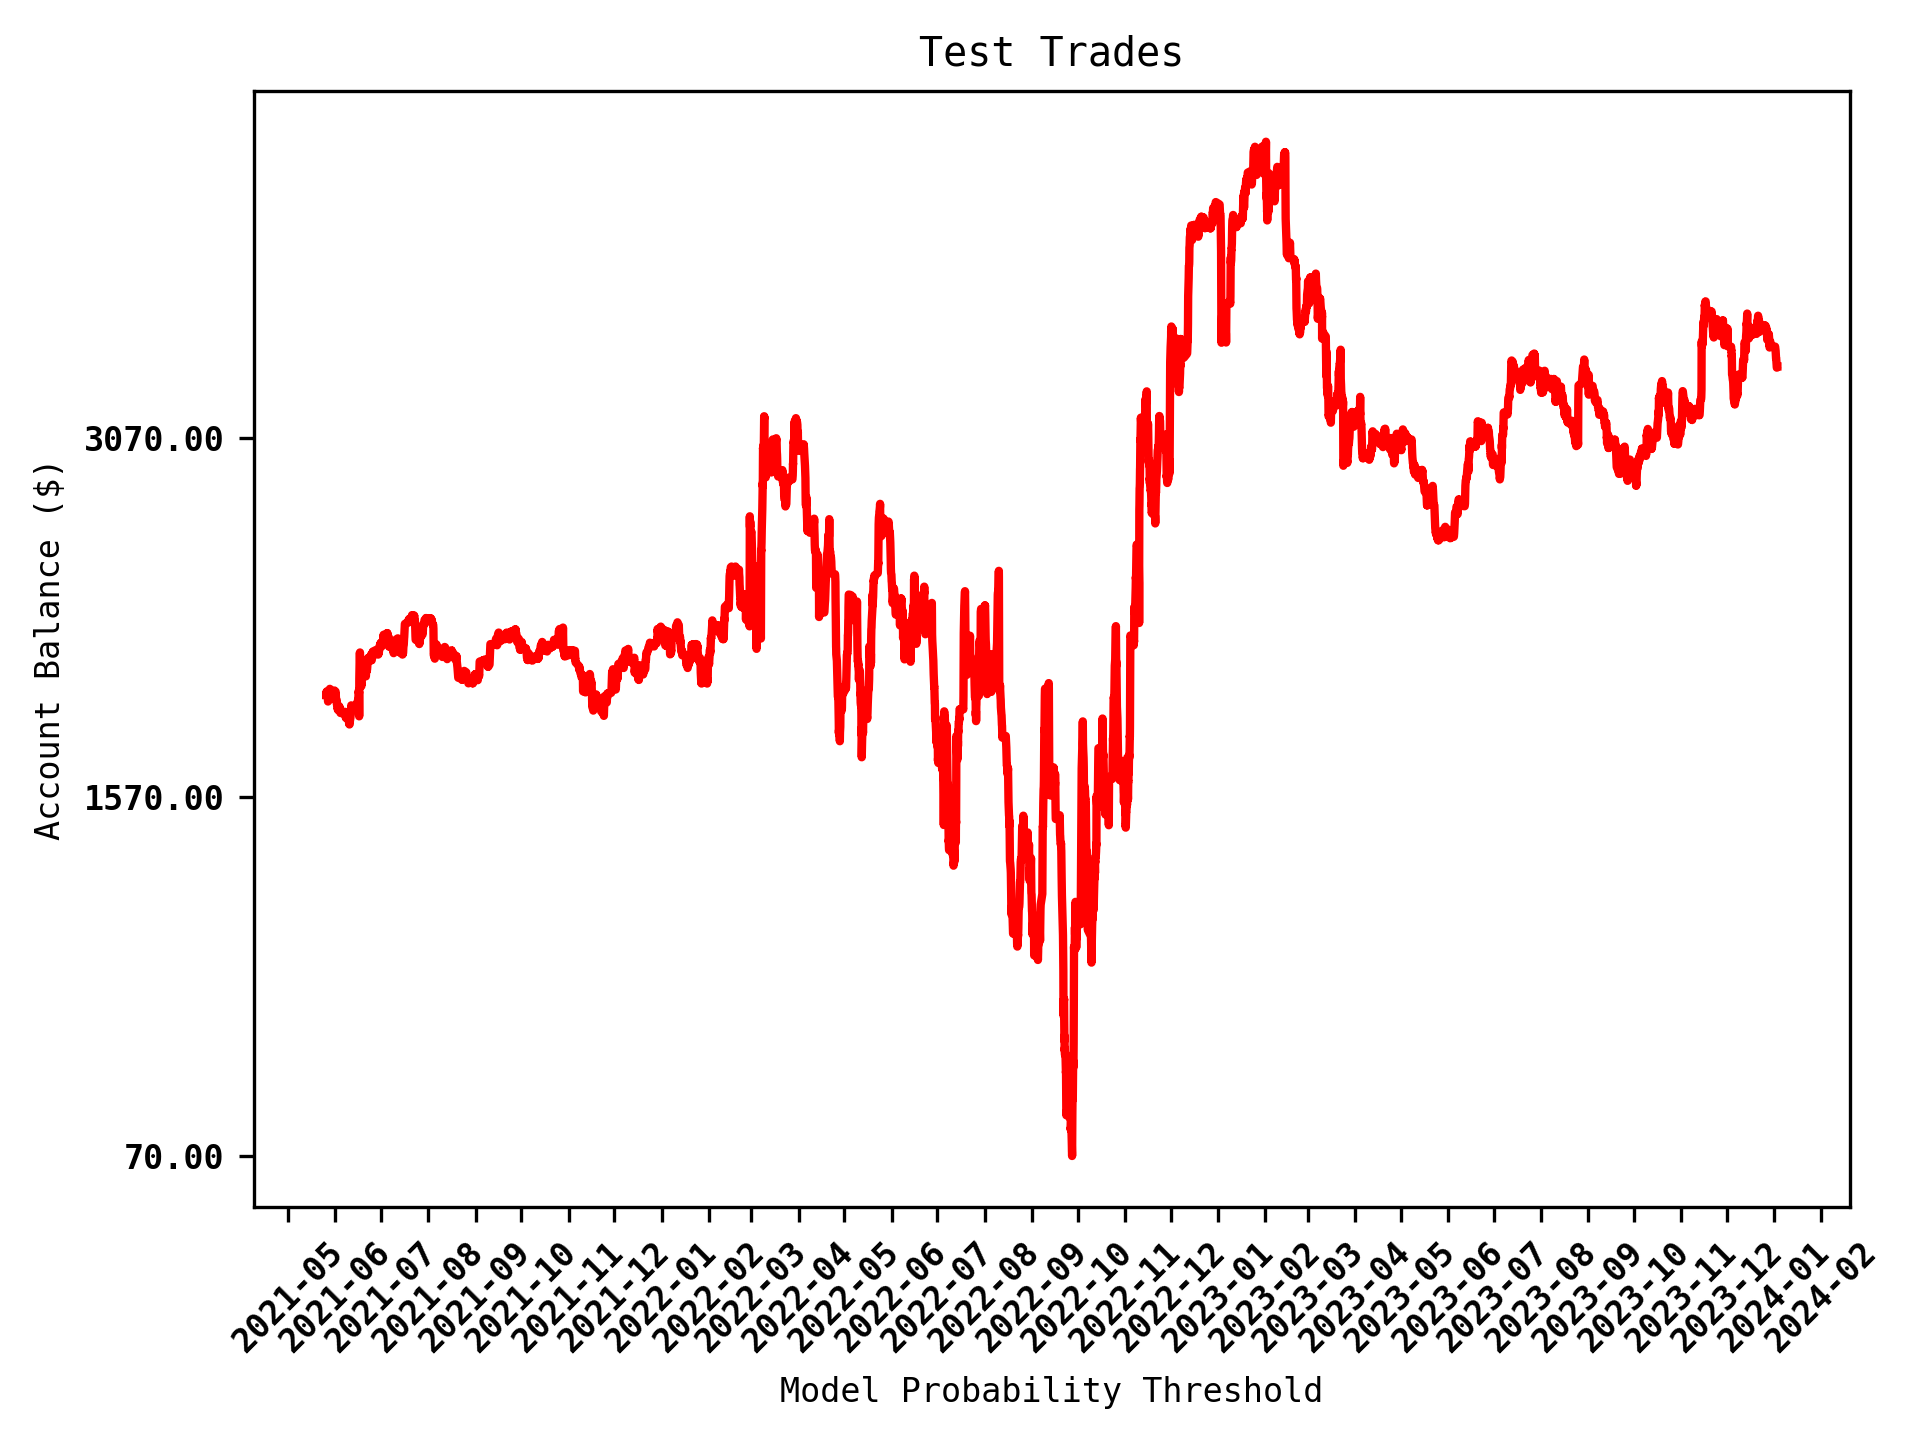
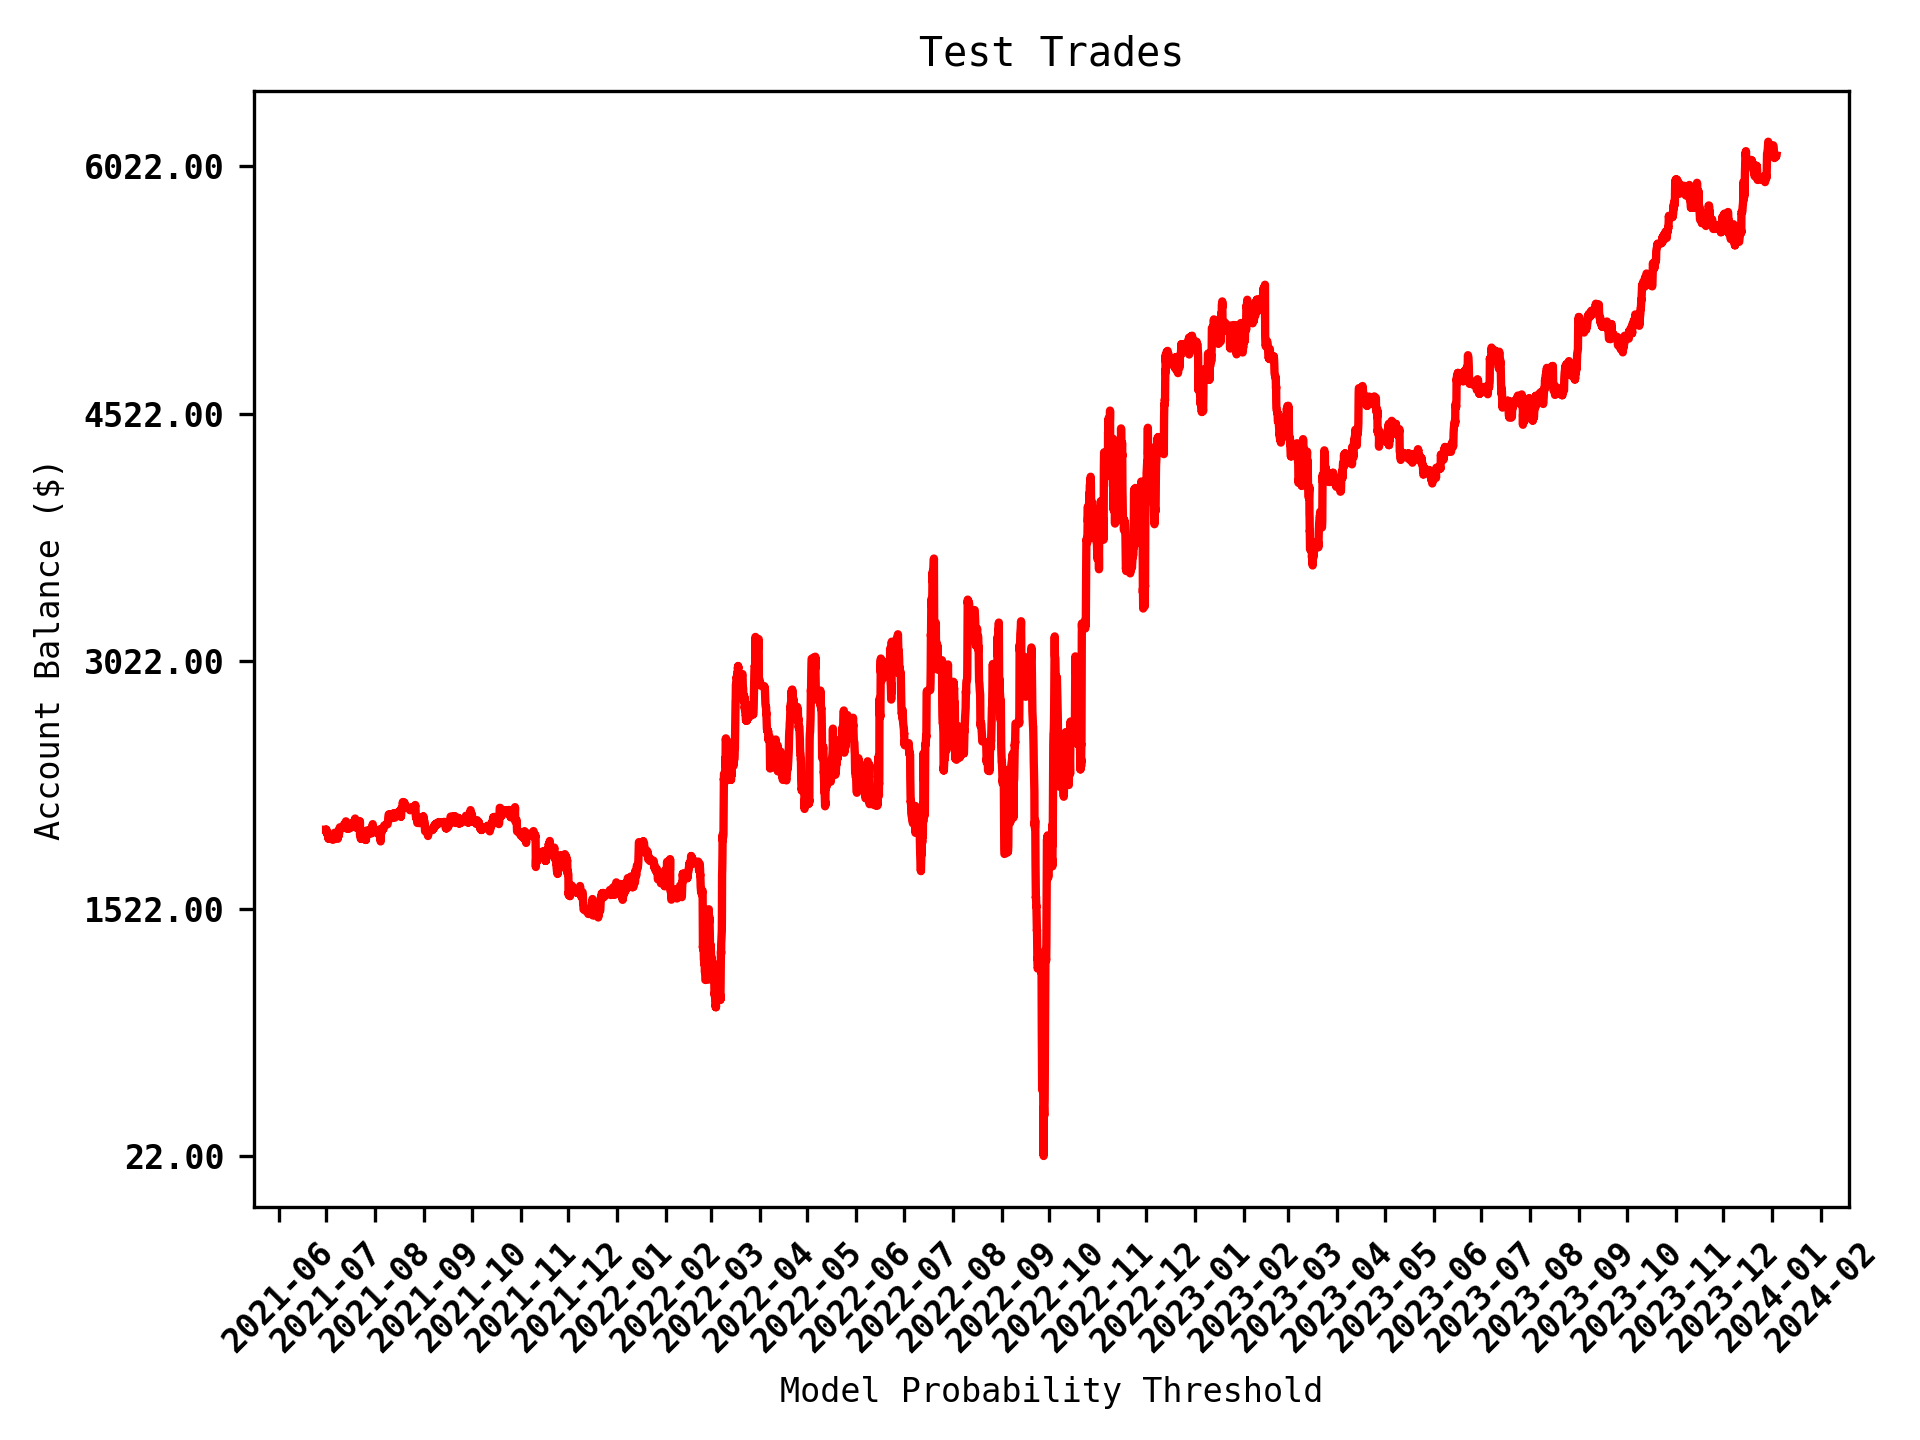
test size dollar amount

diff --git a/src/assets/forex/train_matrix/crossvalidation.py b/src/assets/forex/train_matrix/crossvalidation.py
@@ -39,7 +39,7 @@ def purged_walk_forward_split_with_embargo(data, initial_train_size, test_size, 
             break
 
 '''
-def purged_walk_forward_split_with_embargo(data, initial_train_size=1, test_size=30000, gap=5, embargo_size=3):
+def purged_walk_forward_split_with_embargo(data, initial_train_size=1, test_size=8000, gap=5, embargo_size=3):
     """
     Minimal initial_train_size since you're focusing on train[-1] and test[-1].
     """
@@ -105,7 +105,7 @@ def run_split_process(data):
     train_datasets = []
     test_datasets = []
     
-    for train, test in purged_walk_forward_split_with_embargo(data, initial_train_size=1, test_size=30000, gap=5, embargo_size=3):
+    for train, test in purged_walk_forward_split_with_embargo(data, initial_train_size=1, test_size=8000, gap=5, embargo_size=3):
         #train_data = data.iloc[train]
         #test_data = data.iloc[test]
 

diff --git a/src/assets/forex/train_matrix/oop_train.py b/src/assets/forex/train_matrix/oop_train.py
@@ -255,7 +255,7 @@ if __name__ == "__main__":
     #hyperparameter for experiment and model creation
     model_num ='EURUSD_0816-58'
     asset = "EURUSD"
-    dollar_amount =5000
+    dollar_amount =20000
     lookback =10
     n_components = 17
     learning_rate =.0001
